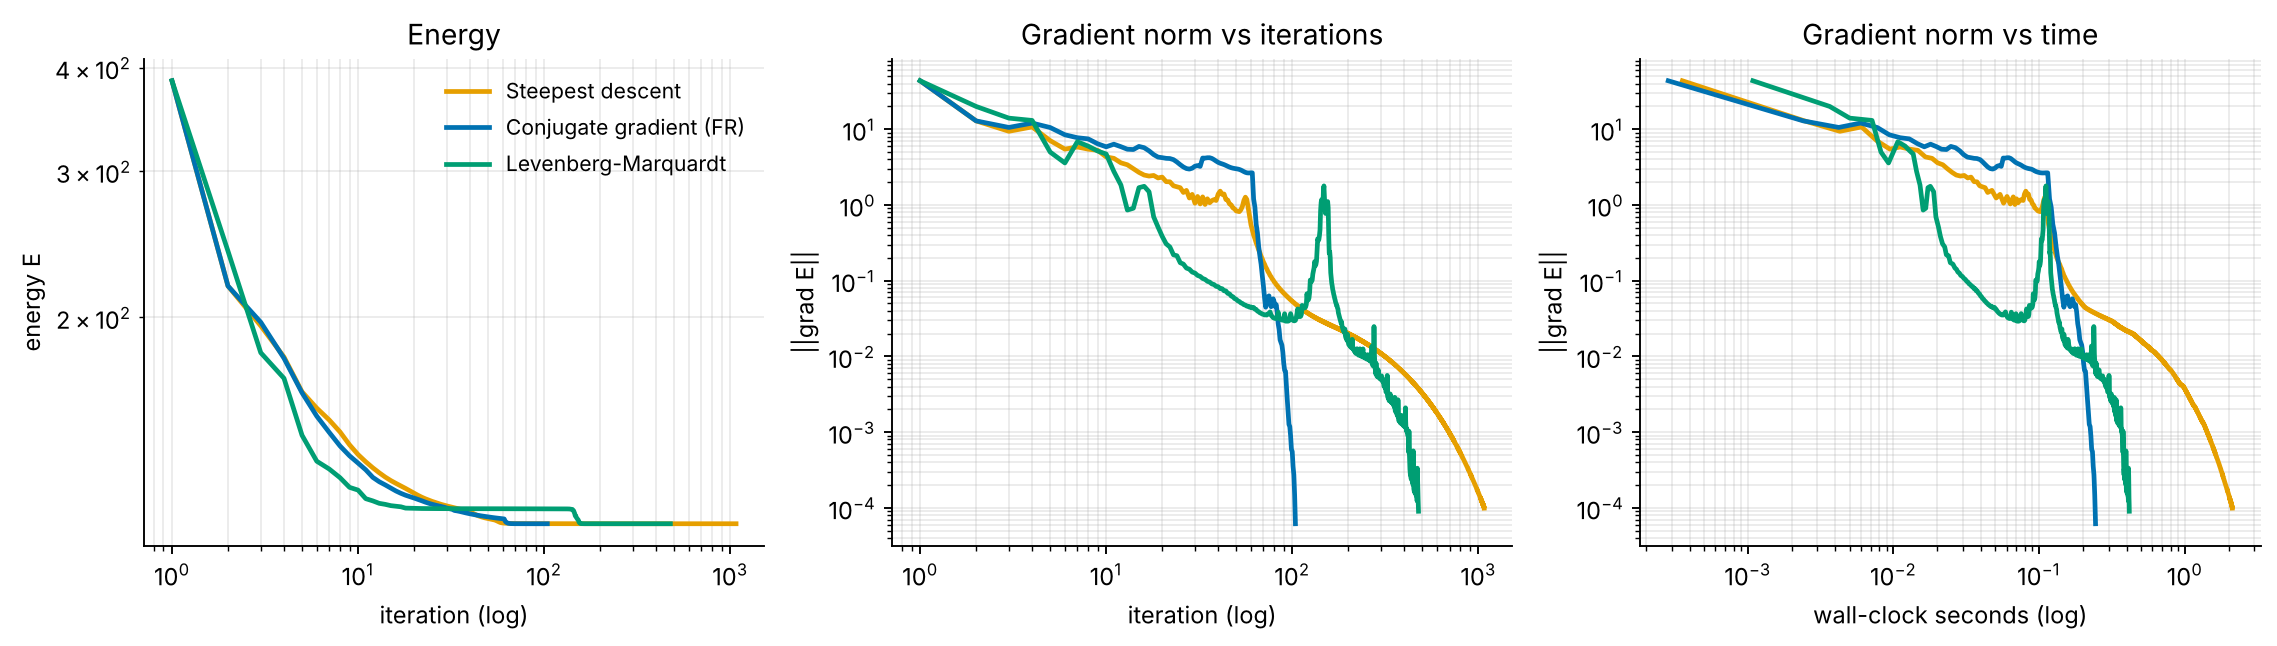
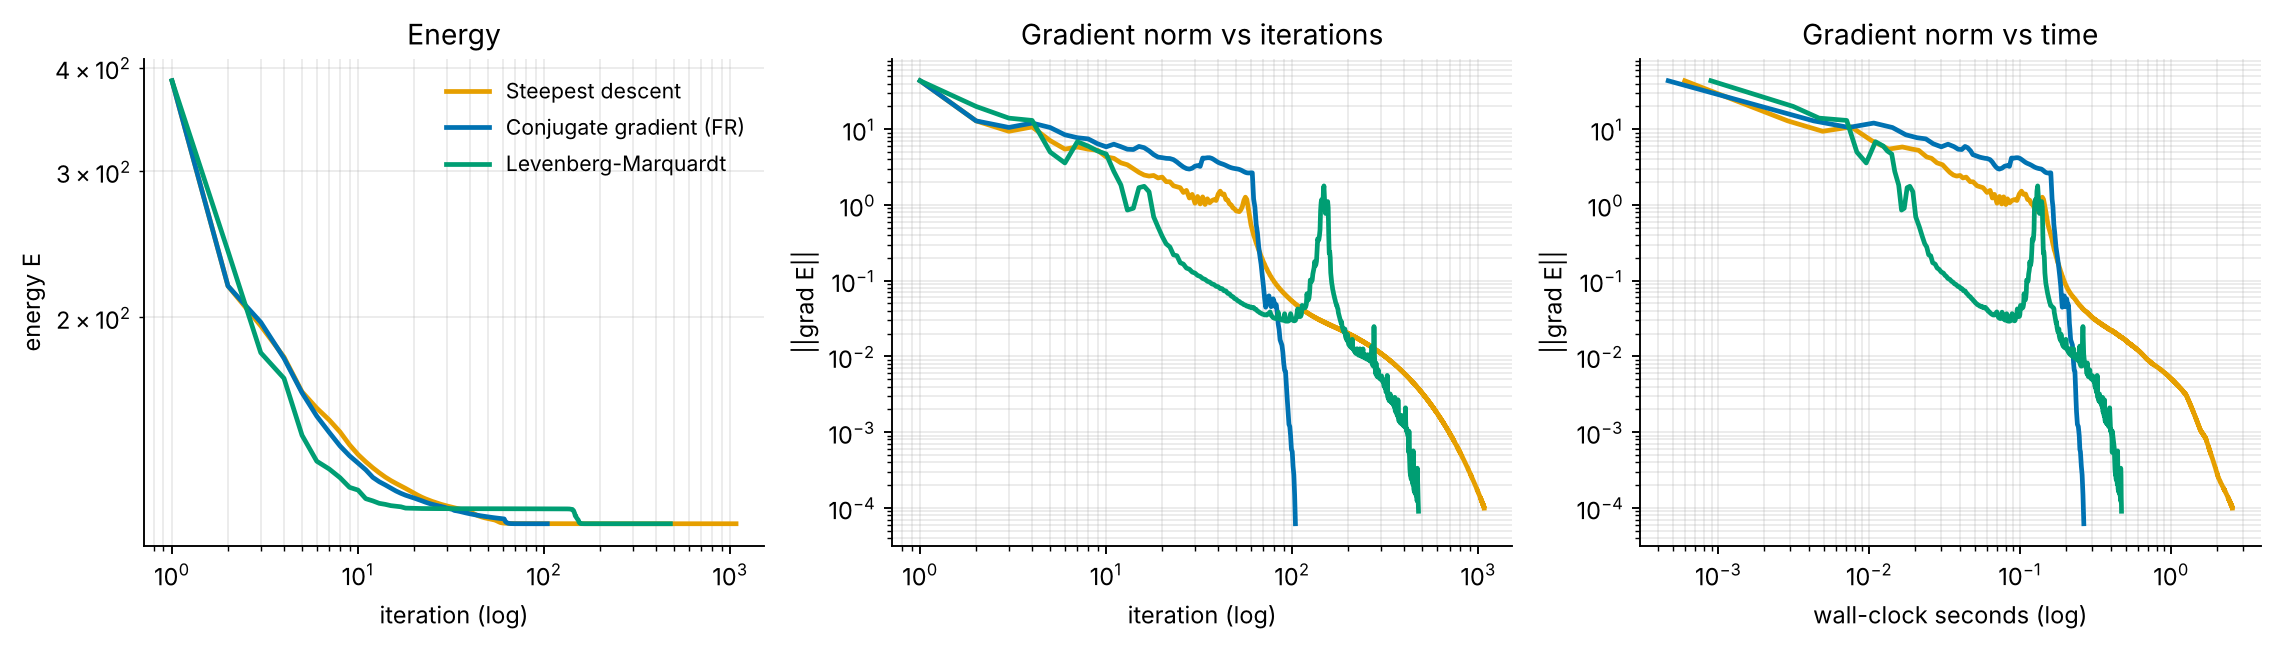
feat: before/after figure and JSON summary from the demo run (feeds the slide deck)  Co-Authored-By: Claude Sonnet 5.5 <noreply@anthropic.com> Claude-Session: https://claude.ai/code/session_01NM3bky7EHqRLQYZJHhavG1

diff --git a/scripts/run_demo.py b/scripts/run_demo.py
@@ -66,6 +66,7 @@ if __name__ == "__main__":
     viz.final_layouts_figure([sd, cg, lm], G, out / f"{tag}_final_layouts.png", z0=z0)
     viz.convergence_figure([sd, cg, lm], out / f"{tag}_convergence.png")
     frames = viz.make_gif(cg, G, out / f"{tag}_cg.gif")
+    viz.before_after_figure(z0, cg.z, G, out / f"{tag}_before_after.png")
     viz.potentials_figure(out / "energy_terms.png", L=E.L, k=E.k, c=E.c, R=E.R, eps=E.eps)
 
     print(f"\n{'method':<26}{'iters':>7}{'E_final':>10}{'time s':>9}{'f/g/J evals':>16}"
@@ -75,4 +76,12 @@ if __name__ == "__main__":
               f"{f'{r.n_f[-1]}/{r.n_g[-1]}/{r.n_J[-1]}':>16}"
               f"{count_crossings(r.z, G.edges):>11}{edge_length_cv(r.z, G.edges):>9.3f}"
               f"{tail_rate(r.gnorm):>8.3f}  {r.stop_reason}")
+    import json
+    summary = {"graph": G.name, "n": G.n, "m": G.m, "seed": seed,
+               "start_crossings": count_crossings(z0, G.edges),
+               "methods": {r.name: {"iters": r.n_iter, "seconds": round(r.seconds[-1], 3),
+                                    "energy": round(r.energy[-1], 4),
+                                    "crossings": count_crossings(r.z, G.edges),
+                                    "rate_q": round(tail_rate(r.gnorm), 3)} for r in (sd, cg, lm)}}
+    (out / f"{tag}_summary.json").write_text(json.dumps(summary, indent=2))
     print(f"\nGIF frames: {frames}.  Files written to {out}/")

diff --git a/forcelayout/viz.py b/forcelayout/viz.py
@@ -157,3 +157,14 @@ def potentials_figure(path, L=1.0, k=1.0, c=0.3, R=8.0, eps=0.15):
     fig.tight_layout()
     fig.savefig(path, dpi=200, bbox_inches="tight", facecolor="white")
     plt.close(fig)
+
+
+def before_after_figure(z0, z1, graph, path, label="conjugate gradient"):
+    """Tangled start next to the optimised layout (title-slide image)."""
+    fig, axes = plt.subplots(1, 2, figsize=(8.2, 4.2))
+    for ax, z, t in ((axes[0], z0, "Random start"), (axes[1], z1, f"After {label}")):
+        draw_layout(ax, z, graph.edges, node_size=34)
+        ax.set_title(f"{t}\n{count_crossings(z, graph.edges)} edge crossings", fontsize=12, color="#222")
+    fig.tight_layout()
+    fig.savefig(path, dpi=200, bbox_inches="tight", facecolor="white")
+    plt.close(fig)
